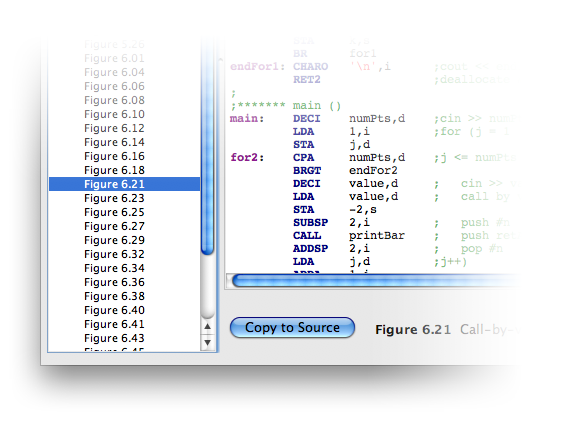
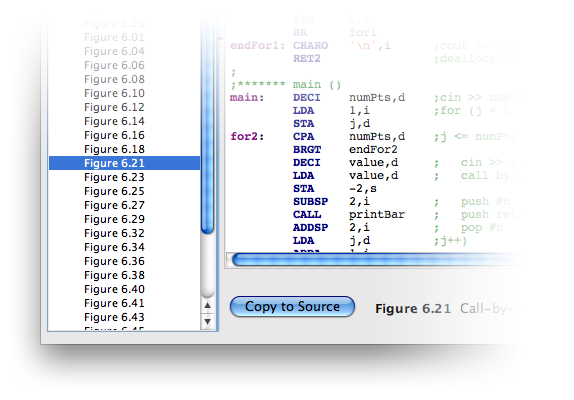
Global structs now supported. Dimensions of the memoryCellGraphicsItem widened a bit to help prevent clipping and help scrollbars show up earlier.
The scene rect is now updated each step to keep the scene's scrollbars
close to the edge of the scene, instead of remaining large (or tall).
The graphics scene now always grows up from the bottom of the
memoryTracePane instead of the middle. Cropped Pep8help.png slightly.

git-svn-id: http://pep8-1.googlecode.com/svn/trunk@462 0efa5a84-20a4-11de-9909-f37ff7dbbc12

diff --git a/memorytracepane.cpp b/memorytracepane.cpp
@@ -41,7 +41,6 @@ MemoryTracePane::MemoryTracePane(QWidget *parent) :
     connect(m_ui->pepScaleSpinBox, SIGNAL(valueChanged(int)), this, SLOT(zoomFactorChanged(int)));
 
     scene = new QGraphicsScene(this);
-
 }
 
 MemoryTracePane::~MemoryTracePane()
@@ -67,6 +66,7 @@ void MemoryTracePane::setMemoryTrace()
     numCellsInStackFrame.clear();
     graphicItemsInStackFrame.clear();
     heapFrameItemStack.clear();
+    newestHeapItemsList.clear();
     scene->clear();
 
     if (Pep::traceTagWarning) {
@@ -85,25 +85,16 @@ void MemoryTracePane::setMemoryTrace()
         blockSymbol = Pep::blockSymbols.at(i);
         multiplier = Pep::symbolFormatMultiplier.value(blockSymbol);
         int address = Pep::symbolTable.value(blockSymbol);
-        if (multiplier == 1) {
-            MemoryCellGraphicsItem *item = new MemoryCellGraphicsItem(address,
-                                                                      blockSymbol,
-                                                                      Pep::symbolFormat.value(blockSymbol),
-                                                                      static_cast<int>(globalLocation.x()),
-                                                                      static_cast<int>(globalLocation.y()));
-            item->updateValue();
-            globalLocation = QPointF(globalLocation.x(), globalLocation.y() + MemoryCellGraphicsItem::boxHeight);
-            globalVars.push(item);
-            addressToGlobalItemMap.insert(address, item);
-            scene->addItem(item);
-        }
-        else {
+        if (Pep::globalStructSymbols.contains(blockSymbol)) {
             int offset = 0;
-            int bytesPerCell = Sim::cellSize(Pep::symbolFormat.value(blockSymbol));
-            for (int j = 0; j < multiplier; j++) {
+            int bytesPerCell;
+            QString structField = "";
+            for (int j = 0; j < Pep::globalStructSymbols.value(blockSymbol).size(); j++) {
+                structField = Pep::globalStructSymbols.value(blockSymbol).at(j);
+                bytesPerCell = Sim::cellSize(Pep::symbolFormat.value(structField));
                 MemoryCellGraphicsItem *item = new MemoryCellGraphicsItem(address + offset,
-                                                                          blockSymbol + QString("[%1]").arg(j),
-                                                                          Pep::symbolFormat.value(blockSymbol),
+                                                                          QString("%1.%2").arg(blockSymbol).arg(structField),
+                                                                          Pep::symbolFormat.value(structField),
                                                                           static_cast<int>(globalLocation.x()),
                                                                           static_cast<int>(globalLocation.y()));
                 item->updateValue();
@@ -112,6 +103,37 @@ void MemoryTracePane::setMemoryTrace()
                 addressToGlobalItemMap.insert(address + offset, item);
                 scene->addItem(item);
                 offset += bytesPerCell;
+            }
+        }
+        else {
+            if (multiplier == 1) {
+                MemoryCellGraphicsItem *item = new MemoryCellGraphicsItem(address,
+                                                                          blockSymbol,
+                                                                          Pep::symbolFormat.value(blockSymbol),
+                                                                          static_cast<int>(globalLocation.x()),
+                                                                          static_cast<int>(globalLocation.y()));
+                item->updateValue();
+                globalLocation = QPointF(globalLocation.x(), globalLocation.y() + MemoryCellGraphicsItem::boxHeight);
+                globalVars.push(item);
+                addressToGlobalItemMap.insert(address, item);
+                scene->addItem(item);
+            }
+            else { // Array
+                int offset = 0;
+                int bytesPerCell = Sim::cellSize(Pep::symbolFormat.value(blockSymbol));
+                for (int j = 0; j < multiplier; j++) {
+                    MemoryCellGraphicsItem *item = new MemoryCellGraphicsItem(address + offset,
+                                                                              blockSymbol + QString("[%1]").arg(j),
+                                                                              Pep::symbolFormat.value(blockSymbol),
+                                                                              static_cast<int>(globalLocation.x()),
+                                                                              static_cast<int>(globalLocation.y()));
+                    item->updateValue();
+                    globalLocation = QPointF(globalLocation.x(), globalLocation.y() + MemoryCellGraphicsItem::boxHeight);
+                    globalVars.push(item);
+                    addressToGlobalItemMap.insert(address + offset, item);
+                    scene->addItem(item);
+                    offset += bytesPerCell;
+                }
             }
         }
     }
@@ -130,17 +152,10 @@ void MemoryTracePane::setMemoryTrace()
     stackLocation.setY(stackLocation.y() - MemoryCellGraphicsItem::boxHeight);
 
     heapLocation.setY(globalLocation.y() - MemoryCellGraphicsItem::boxHeight);
-
-//    int x = -100 - MemoryCellGraphicsItem::addressWidth - 10;
-//    int h = globalVars.size() > runtimeStack.size() ?
-//    globalVars.size() * MemoryCellGraphicsItem::boxHeight + 25 :
-//    runtimeStack.size() * MemoryCellGraphicsItem::boxHeight + 25;
-//    int widthOfCell = MemoryCellGraphicsItem::addressWidth + MemoryCellGraphicsItem::bufferWidth * 2 +
-//    MemoryCellGraphicsItem::boxWidth + MemoryCellGraphicsItem::symbolWidth;
-//    int w = 200 + widthOfCell;
-//    m_ui->pepStackTraceGraphicsView->setSceneRect(x, 15, w, -h);
     
+    scene->setSceneRect(scene->itemsBoundingRect());
     m_ui->pepStackTraceGraphicsView->setScene(scene);
+
     m_ui->warningLabel->clear();
 
     stackFrameFSM.reset();
@@ -163,7 +178,7 @@ void MemoryTracePane::updateMemoryTrace()
         heap.at(i)->boxBgColor = Qt::white;
         heap.at(i)->boxTextColor = Qt::black;
     }
-    // Color the newest 'new' items on the heap light blue
+    // Color the newest 'new' items on the heap light green
     for (int i = 0; i < newestHeapItemsList.size(); i++) {
         newestHeapItemsList.at(i)->boxBgColor = QColor(72, 255, 72, 192);
     }
@@ -227,16 +242,13 @@ void MemoryTracePane::updateMemoryTrace()
         }
     }
 
-    // Set the scene rect (to remove scroll bars):
-    // I thought we got rid of this? commenting it out...
-//    int x = -100 - MemoryCellGraphicsItem::addressWidth - 10;
-//    int h = globalVars.size() > runtimeStack.size() ?
-//            globalVars.size() * MemoryCellGraphicsItem::boxHeight + 25 :
-//            runtimeStack.size() * MemoryCellGraphicsItem::boxHeight + 25;
-//    int widthOfCell = MemoryCellGraphicsItem::addressWidth + MemoryCellGraphicsItem::bufferWidth * 2 +
-//                      MemoryCellGraphicsItem::boxWidth + MemoryCellGraphicsItem::symbolWidth;
-//    int w = 200 + widthOfCell;
-//    m_ui->pepStackTraceGraphicsView->setSceneRect(x, 15, w, -h);
+    scene->setSceneRect(scene->itemsBoundingRect());
+    // This is time-consuming, but worthwhile to ensure scrollbars aren't going off into oblivion after items are removed.
+    // From the documentation for the 'itemsBoundingRect()' function:
+    //  Calculates and returns the bounding rect of all items on the scene.
+    //  This function works by iterating over all items, and because if this, it can be slow for large scenes.
+    // Our it is unlikely that this scene become very large (as in the 30,000 chips example), so I would expect this to remain
+    // a reasonable function call. It is also called in the 'setMemoryTrace' function, but the scene will have very few items at that point.
 
     scene->invalidate(); // redraw the scene!
     // this is fast, so we do this for the whole scene instead of just certain boxes

diff --git a/memorycellgraphicsitem.cpp b/memorycellgraphicsitem.cpp
@@ -28,8 +28,8 @@
 
 const int MemoryCellGraphicsItem::boxHeight = 22;
 const int MemoryCellGraphicsItem::boxWidth = 50;
-const int MemoryCellGraphicsItem::addressWidth = 64;
-const int MemoryCellGraphicsItem::symbolWidth = 64;
+const int MemoryCellGraphicsItem::addressWidth = 48;
+const int MemoryCellGraphicsItem::symbolWidth = 96;
 const int MemoryCellGraphicsItem::bufferWidth = 14;
 
 MemoryCellGraphicsItem::MemoryCellGraphicsItem(int addr, QString sym,  Enu::ESymbolFormat eSymFrmt, int xLoc, int yLoc)

diff --git a/memorytracepane.h b/memorytracepane.h
@@ -120,7 +120,7 @@ private:
     // This is used to delay the clear of the bytesWrittenLastStep list for purposes of highlighting after a trap
 
     QList<MemoryCellGraphicsItem *> newestHeapItemsList;
-    // This is used to color the most recently new'd heap items light blue
+    // This is used to color the most recently new'd heap items light green
 
     StackFrameFSM stackFrameFSM;
 
